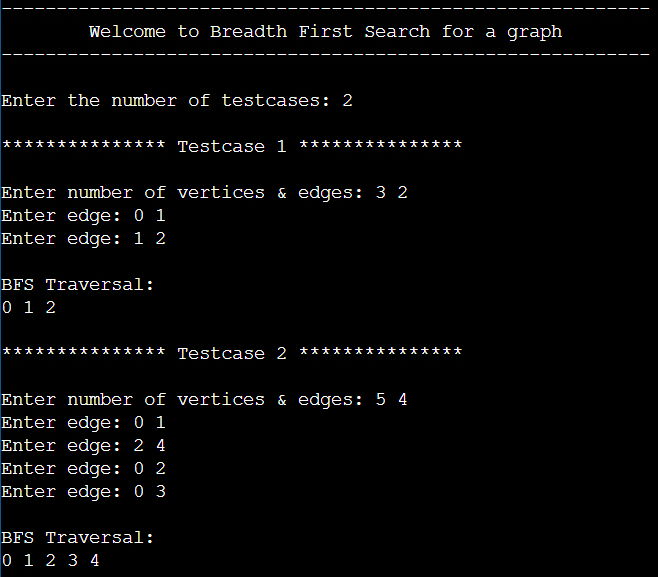
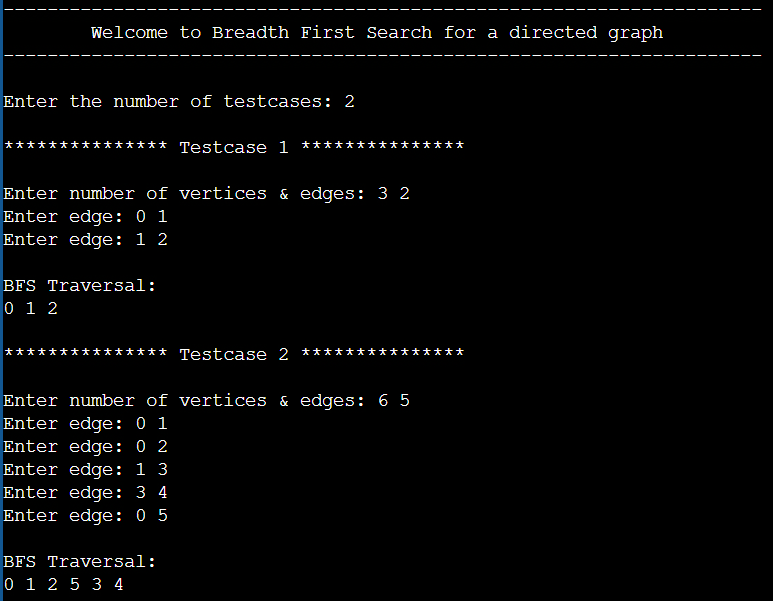
Add comments

diff --git a/Graphs/BFS/bfs.py b/Graphs/BFS/bfs.py
@@ -1,5 +1,6 @@
 from collections import deque
 
+# Function to return a list containing the BFS traversal of the directed graph
 def bfs_graph(vertices, adj):
     bfs = []
     visited = set()
@@ -16,7 +17,7 @@ def bfs_graph(vertices, adj):
     return bfs
 
 print('-----------------------------------------------------------')
-print('\tWelcome to Breadth First Search for a graph')
+print('\tWelcome to Breadth First Search for a directed graph')
 print('-----------------------------------------------------------\n')
 t = int(input("Enter the number of testcases: "))
 for _ in range(t):
